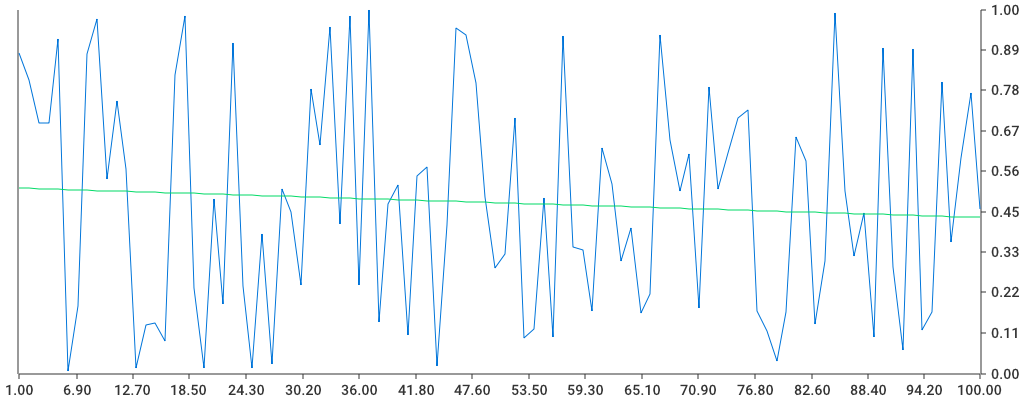
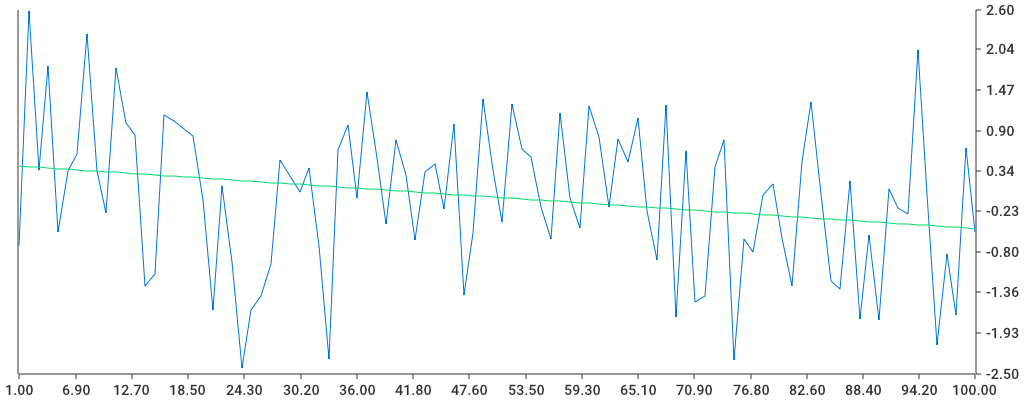
update normal signal

diff --git a/homework/task3/producer/producer.go b/homework/task3/producer/producer.go
@@ -12,7 +12,7 @@ import (
 
 // 产生随机数
 func generateNumber() float64 {
-	return rand.Float64()
+	return rand.NormFloat64()
 }
 
 func main() {
@@ -28,12 +28,9 @@ func main() {
 	doChan := make(chan *nsq.ProducerTransaction)
 
 	go func() {
-		for {
-			select {
-			case res := <-doChan:
-				if res.Error != nil {
-					log.Println("send error:", res.Error.Error())
-				}
+		for res := range doChan {
+			if res.Error != nil {
+				log.Println("send error:", res.Error.Error())
 			}
 		}
 	}()

diff --git a/homework/task3/outlier/outlier.go b/homework/task3/outlier/outlier.go
@@ -43,7 +43,7 @@ func (h *myMessageHandler) processMessage(m []byte) error {
 			}
 
 			for _, v := range nums {
-				if v > mean+2.0*sd || v < mean-2.0*sd {
+				if v > mean+3.0*sd || v < mean-3.0*sd {
 					log.Println("异常点:", v)
 				}
 			}
